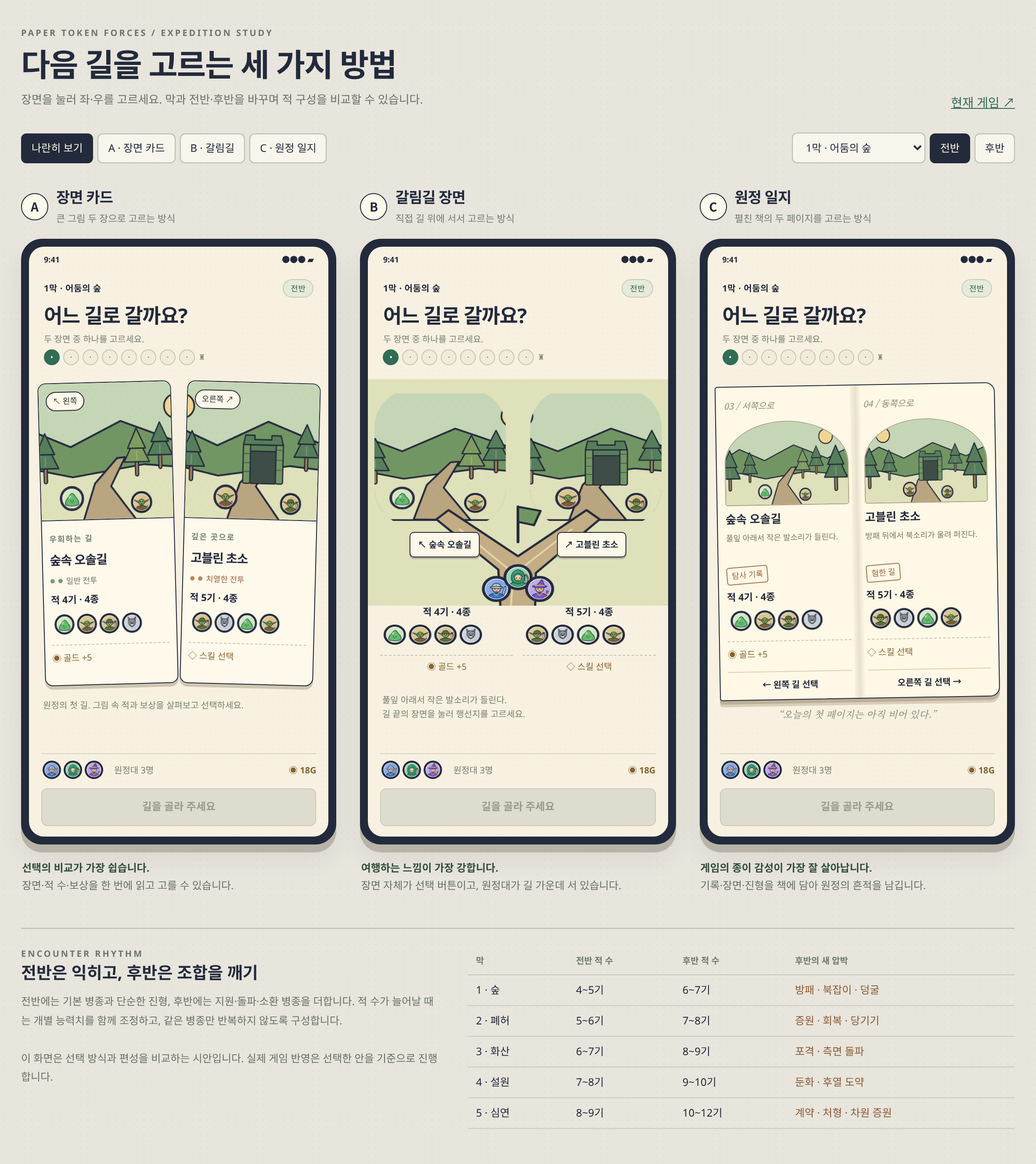
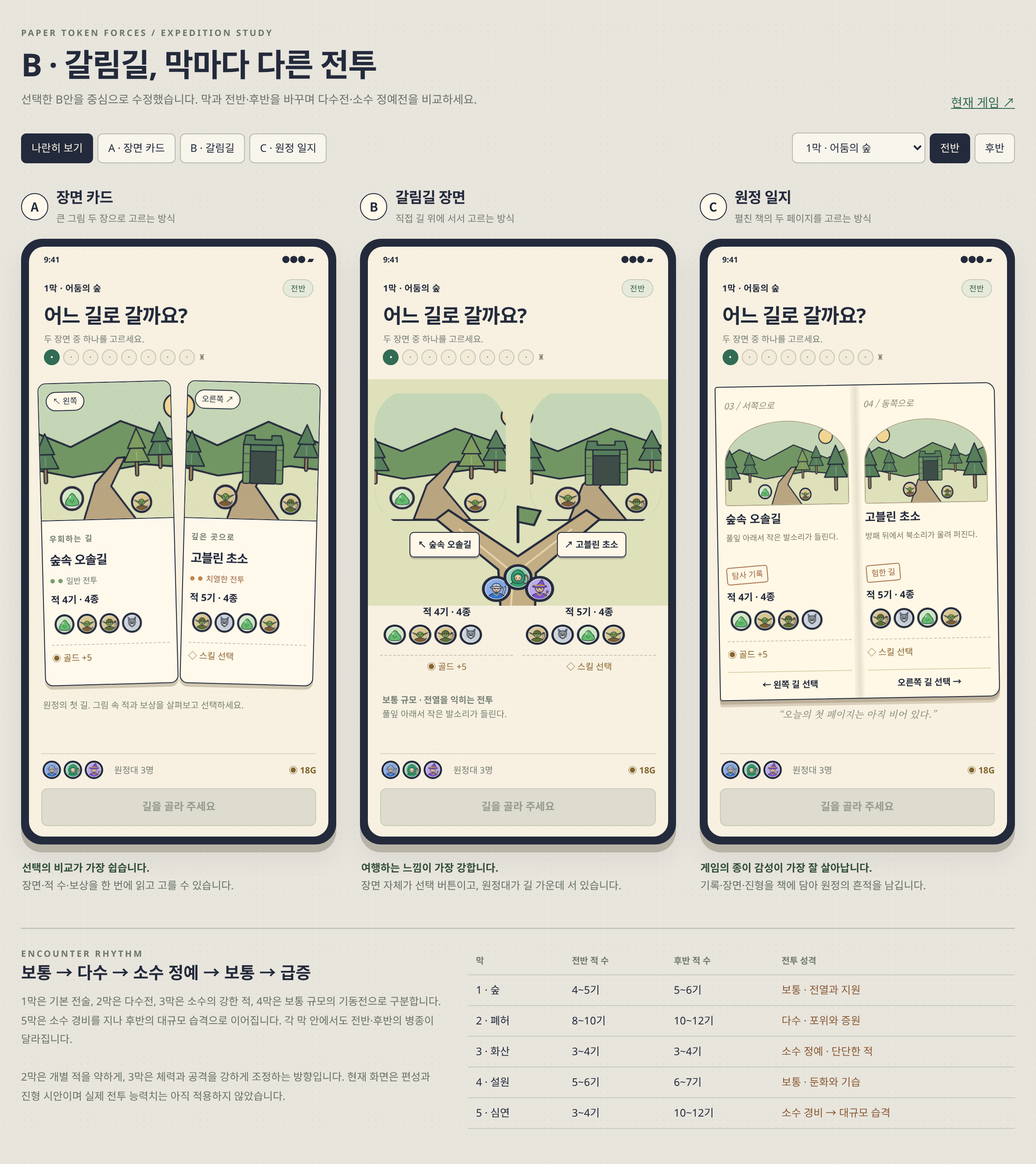
design(v4): select fork route and vary each act's battle rhythm

diff --git a/concepts/route-proposals.js b/concepts/route-proposals.js
@@ -5,17 +5,27 @@
   const themes = [null,
     { name: '어둠의 숲', sky: '#c5d6b6', ground: '#dee1ba', dark: '#577e5b', accent: '#729663', early: ['slime','goblin','gobarcher','wolf'], late: ['woodguard','gobdrummer','thornroot','acornlobber','shroom'], titles: [['숲속 오솔길','고블린 초소'],['덩굴 협곡','북소리 야영지']], story: ['풀잎 아래서 작은 발소리가 들린다.','방패 뒤에서 북소리가 울려 퍼진다.'] },
     { name: '망자의 폐허', sky: '#c9c5d2', ground: '#d9d5c7', dark: '#7c778b', accent: '#9788a4', early: ['skel','skelarch','zombie','bat'], late: ['boneguard','coffinbearer','chainwraith','bellkeeper','necro'], titles: [['묘지 샛길','무너진 성문'],['장송의 묘지','망령의 관문']], story: ['허물어진 담장 너머 뼈가 움직인다.','종소리가 울리자 관 뚜껑이 열린다.'] },
-    { name: '용의 화산', sky: '#e0bda8', ground: '#d8b493', dark: '#806559', accent: '#c37a4f', early: ['imp','lizard','salam','harpy'], late: ['powderimp','obsidian','lavaborer','flamerider','whelp','magmagolem'], titles: [['재가 쌓인 길','흑요석 관문'],['용암 분출지','화염 기수 주둔지']], story: ['식은 재 위로 작은 불씨가 튄다.','검은 갑각 사이로 용암이 흐른다.'] },
+    { name: '용의 화산', sky: '#e0bda8', ground: '#d8b493', dark: '#806559', accent: '#c37a4f', early: ['magmagolem','whelp','dragonkin','firecult'], late: ['obsidian','lavaborer','flamerider','demonknight'], titles: [['거인의 재길','용족의 관문'],['용암 분출지','화염 기수 주둔지']], story: ['재 아래서 거대한 숨소리가 들린다.','검은 갑각의 수호자들이 길을 막는다.'] },
     { name: '얼어붙은 봉우리', sky: '#c7dfe0', ground: '#e4ece1', dark: '#6f8f98', accent: '#74a7b8', early: ['yeti','frostwolf','frostskel','icesprite'], late: ['iceguard','frostdrummer','snowleopard','crystalmage','snowarcher'], titles: [['눈 덮인 계곡','얼음 감시탑'],['눈표범 사냥터','수정 요새']], story: ['눈밭에 발자국이 나란히 남아 있다.','안개 뒤 수정과 화살촉이 반짝인다.'] },
     { name: '심연의 성채', sky: '#c2b3c9', ground: '#cec1cf', dark: '#716380', accent: '#a684b2', early: ['demon','fallen','hellhound','shade'], late: ['contractpriest','abyssbanner','executioner','mirrordemon','darkpriest'], titles: [['버려진 회랑','차원 성문'],['그림자 회랑','계약의 성채']], story: ['빈 갑옷 안에서 발소리가 들린다.','보랏빛 문에서 새로운 그림자가 나온다.'] },
   ];
+  // Count and strength proposals are relative to an ordinary enemy in the same act.
+  // The preview shows composition only; these multipliers do not modify the live game.
+  const profiles = [null,
+    { early: { min:4, max:5, hp:1, atk:1, label:'보통 규모 · 전열을 익히는 전투' }, late: { min:5, max:6, hp:1, atk:1, label:'보통 규모 · 호위와 지원 병종' } },
+    { early: { min:8, max:10, hp:.65, atk:.75, label:'다수전 · 약한 적이 무리 지어 등장' }, late: { min:10, max:12, hp:.65, atk:.75, label:'다수전 · 회복과 증원의 물결' } },
+    { early: { min:3, max:4, hp:1.7, atk:1.25, label:'소수 정예 · 한 기씩 확실하게 처치' }, late: { min:3, max:4, hp:2, atk:1.4, label:'소수 정예 · 강력한 공격에 대비' } },
+    { early: { min:5, max:6, hp:1, atk:1, label:'보통 규모 · 둔화와 추격' }, late: { min:6, max:7, hp:1, atk:1, label:'보통 규모 · 후열을 노리는 기습' } },
+    { early: { min:3, max:4, hp:1.4, atk:1.1, label:'소수 경비 · 핵심 적부터 제거' }, late: { min:10, max:12, hp:.8, atk:.9, label:'대규모 습격 · 차원문에서 몰려오는 적' } },
+  ];
+  const profileFor = s => profiles[s.act][s.step>=4?'late':'early'];
   const captions = {
     a: ['장면 카드', '큰 그림 두 장으로 고르는 방식', '선택의 비교가 가장 쉽습니다.', '장면·적 수·보상을 한 번에 읽고 고를 수 있습니다.'],
     b: ['갈림길 장면', '직접 길 위에 서서 고르는 방식', '여행하는 느낌이 가장 강합니다.', '장면 자체가 선택 버튼이고, 원정대가 길 가운데 서 있습니다.'],
     c: ['원정 일지', '펼친 책의 두 페이지를 고르는 방식', '게임의 종이 감성이 가장 잘 살아납니다.', '기록·장면·진형을 책에 담아 원정의 흔적을 남깁니다.'],
   };
   const states = ['a','b','c'].map(id => ({ id, act: 1, step: 0, selected: null, stage: 'choice', history: [] }));
-  let view = ['a','b','c'].includes(location.hash.slice(1)) ? location.hash.slice(1) : 'compare';
+  let view = ['a','b','c'].includes(location.hash.slice(1)) ? location.hash.slice(1) : 'b';
   const texture = c => { c.fillStyle = '#232a3b0d'; for (let y=4;y<180;y+=8) for(let x=4+(y%3)*2;x<320;x+=10){c.beginPath();c.arc(x,y,.65,0,7);c.fill();} };
   function polygon(c, points, fill) { c.beginPath(); points.forEach(([x,y],i)=>i?c.lineTo(x,y):c.moveTo(x,y)); c.closePath(); c.fillStyle=fill; c.fill(); c.strokeStyle=INK;c.lineWidth=2.4;c.lineJoin='round';c.stroke(); }
   function line(c,points,color=INK,width=2.4){c.beginPath();points.forEach(([x,y],i)=>i?c.lineTo(x,y):c.moveTo(x,y));c.strokeStyle=color;c.lineWidth=width;c.lineCap='round';c.stroke();}
@@ -34,7 +44,8 @@
     texture(c);const ids=late?t.late:t.early;enemyIcon(c,ids[side?1:0],side?121:108,152,17);enemyIcon(c,ids[side?2:1],side?210:203,159,15);
   }
   function canvas(el,w,h,draw){const dpr=Math.min(3,window.devicePixelRatio||1);el.width=Math.ceil(w*dpr);el.height=Math.ceil(h*dpr);const c=el.getContext('2d');c.scale(dpr,dpr);draw(c);}
-  function choices(s){const t=themes[s.act],late=s.step>=4,base=late?5+s.act:3+s.act;return [0,1].map(side=>{let n=base+((s.step+side)%2);if(late&&s.act===5&&side===1)n=12;const pool=late?t.late:t.early,ids=Array.from({length:n},(_,i)=>pool[(i+(side?2:0)+s.step)%pool.length]);return {side,name:t.titles[late?1:0][side],ids,n,late,act:s.act,reward:side?'스킬 선택':`골드 +${4+s.act+(late?2:0)}`,hint:side?(late?'지원 병종이 전열을 지킵니다.':'후열 사수를 먼저 노리세요.'):(late?'넓게 배치해 포위에 대비하세요.':'전열을 세우고 차근차근 돌파하세요.')};});}
+  function choices(s){const t=themes[s.act],late=s.step>=4,profile=profileFor(s);return [0,1].map(side=>{const n=profile.min+((s.step%4+side*(profile.max-profile.min))%(profile.max-profile.min+1)),pool=late?t.late:t.early,ids=Array.from({length:n},(_,i)=>pool[(i+(side?2:0)+s.step)%pool.length]);return {side,name:t.titles[late?1:0][side],ids,n,late,act:s.act,profile,reward:side?'스킬 선택':`골드 +${4+s.act+(late?2:0)}`,hint:profile.label};});}
+  function bossRoute(s){const t=themes[s.act],profile=profiles[s.act].late,n=profile.max;return {name:['','숲의 왕좌','죽은 자의 왕좌','용의 둥지','빙하의 왕좌','심연의 왕좌'][s.act],act:s.act,side:1,late:true,n,profile,ids:[GD.ACTS[s.act].bosses[0],...Array.from({length:n-1},(_,i)=>t.late[i%t.late.length])],reward:'다음 막 · 보스 전리품',hint:s.act===3?'강력한 보스와 소수의 정예 호위입니다.':'보스와 호위 병종을 함께 상대합니다.'};}
   function portraits(c,ids,w=136,h=32){const unique=[...new Set(ids)];unique.forEach((id,i)=>enemyIcon(c,id,15+i*Math.min(26,(w-29)/Math.max(1,unique.length-1)),16,12));}
   function formation(c,route){
     c.fillStyle='#e7eadb';c.fillRect(0,0,320,147);
@@ -42,29 +53,29 @@
     const used=new Set();
     for(const id of route.ids){const d=GD.MONSTERS[id],rows=d.range>1?[0,1,2]:[2,1,0];let slot;
       for(const row of rows){for(const col of [2,1,3,0,4]){const key=row*5+col;if(!used.has(key)){slot={key,row,col};break;}}if(slot)break;}
-      if(slot){used.add(slot.key);enemyIcon(c,id,38+slot.col*61,28+slot.row*43,16);}
+      if(slot){used.add(slot.key);const x=38+slot.col*61,y=28+slot.row*43;if(route.act===3)oval(c,x,y,22,18,'#edc68b');enemyIcon(c,id,x,y,16);}
     }
   }
 
   const cards = (s,routes) => `<div class="postcards">${routes.map(r=>`<button class="route-card" data-side="${r.side}" aria-label="${r.side?'오른쪽':'왼쪽'} ${r.name} 선택" aria-pressed="${s.selected===r.side}"><span class="card-arrow">${r.side?'오른쪽 ↗':'↖ 왼쪽'}</span><canvas class="scene" data-scene="${r.side}" aria-hidden="true"></canvas><div class="card-copy"><small>${r.side?'깊은 곳으로':'우회하는 길'}</small><h4>${r.name}</h4><div class="risk ${r.side?'hard':''}"><i></i><i></i>${r.side?'치열한 전투':'일반 전투'}</div><p class="enemy-count">적 ${r.n}기 · ${new Set(r.ids).size}종</p><canvas class="tokens" data-tokens="${r.side}" aria-hidden="true"></canvas><div class="reward">${r.side?'◇':'◉'} ${r.reward}</div></div></button>`).join('')}</div><p class="theme-note">${s.step>=4?'새로운 병종이 합류했습니다. 지원과 전열의 조합을 살펴보세요.':'원정의 첫 길. 그림 속 적과 보상을 살펴보고 선택하세요.'}</p>`;
-  const diorama = (s,routes) => `<div class="diorama"><canvas class="wide-scene" data-diorama aria-hidden="true"></canvas>${routes.map(r=>`<button class="branch-hotspot ${r.side?'right':'left'}" data-side="${r.side}" aria-label="${r.side?'오른쪽':'왼쪽'} ${r.name} 선택" aria-pressed="${s.selected===r.side}"><span>${r.side?'↗':'↖'} ${r.name}</span></button>`).join('')}</div><div class="branch-details">${routes.map(r=>`<div class="branch-detail"><p class="enemy-count">적 ${r.n}기 · ${new Set(r.ids).size}종</p><canvas class="tokens" data-tokens="${r.side}" aria-hidden="true"></canvas><div class="reward">${r.side?'◇':'◉'} ${r.reward}</div></div>`).join('')}</div><p class="theme-note">${themes[s.act].story[s.step>=4?1:0]}<br>길 끝의 장면을 눌러 행선지를 고르세요.</p>`;
+  const diorama = (s,routes) => `<div class="diorama"><canvas class="wide-scene" data-diorama aria-hidden="true"></canvas>${routes.map(r=>`<button class="branch-hotspot ${r.side?'right':'left'}" data-side="${r.side}" aria-label="${r.side?'오른쪽':'왼쪽'} ${r.name} 선택" aria-pressed="${s.selected===r.side}"><span>${r.side?'↗':'↖'} ${r.name}</span></button>`).join('')}</div><div class="branch-details">${routes.map(r=>`<div class="branch-detail"><p class="enemy-count">적 ${r.n}기 · ${new Set(r.ids).size}종</p><canvas class="tokens" data-tokens="${r.side}" aria-hidden="true"></canvas><div class="reward">${r.side?'◇':'◉'} ${r.reward}</div></div>`).join('')}</div><p class="theme-note"><b>${profileFor(s).label}</b><br>${themes[s.act].story[s.step>=4?1:0]}</p>`;
   const journal = (s,routes) => `<div class="book">${routes.map(r=>`<button class="book-page" data-side="${r.side}" aria-label="${r.side?'오른쪽':'왼쪽'} ${r.name} 선택" aria-pressed="${s.selected===r.side}"><span class="page-number">${String(s.step*2+3+r.side).padStart(2,'0')} / ${r.side?'동쪽으로':'서쪽으로'}</span><canvas class="scene" data-scene="${r.side}" aria-hidden="true"></canvas><h4>${r.name}</h4><p class="story">${themes[s.act].story[r.side]}</p><span class="stamp">${r.side?'험한 길':'탐사 기록'}</span><p class="enemy-count">적 ${r.n}기 · ${new Set(r.ids).size}종</p><canvas class="tokens" data-tokens="${r.side}" aria-hidden="true"></canvas><div class="reward">${r.side?'◇':'◉'} ${r.reward}</div><span class="page-direction">${r.side?'오른쪽 길 선택 →':'← 왼쪽 길 선택'}</span></button>`).join('')}</div><p class="journal-note">“${s.history.length?'우리가 고른 길이 원정의 기록이 된다.':'오늘의 첫 페이지는 아직 비어 있다.'}”</p>`;
   function render(s){const article=$('proposal-'+s.id),t=themes[s.act],routes=choices(s),late=s.step>=4;const party=`<div class="party"><canvas data-party aria-hidden="true"></canvas><span>원정대 3명</span><b>◉ ${18+s.history.length*3}G</b></div>`;
     const header=`<div class="statusbar"><span>9:41</span><span>●●● ▰</span></div><div class="screen-head"><div class="actline"><b>${s.act}막 · ${t.name}</b><span class="phase ${late?'late':''}">${late?'후반':'전반'}</span></div><h3>${s.stage==='choice'?'어느 길로 갈까요?':s.stage==='boss'?'마지막 관문':'이 길로 떠납니다'}</h3><p class="sub">${s.stage==='choice'?'두 장면 중 하나를 고르세요.':s.stage==='boss'?'이 막의 보스가 기다리고 있습니다.':'선택한 행선지와 적의 진형'}</p><div class="breadcrumbs">${Array.from({length:8},(_,i)=>`<span class="crumb ${i===s.step?'now':i>s.step?'rest':''}">${i<s.history.length?(s.history[i]?'↗':'↖'):i===s.step?'•':'·'}</span>`).join('')}<span>♜</span></div></div>`;
     let content,footer;
     if(s.stage==='choice'){content=`<div class="choice-space">${({a:cards,b:diorama,c:journal})[s.id](s,routes)}<div class="selection-line" aria-live="polite">${s.selected===null?'':`${s.selected?'오른쪽':'왼쪽'} · ${routes[s.selected].name}`}</div></div>`;footer=`<div class="bottom">${party}<button class="depart" data-depart ${s.selected===null?'disabled':''}>${s.selected===null?'길을 골라 주세요':`${s.selected?'오른쪽':'왼쪽'} 길로 출발 →`}</button></div>`;}
-    else{const r=s.stage==='boss'?{name:['','숲의 왕좌','죽은 자의 왕좌','용의 둥지','빙하의 왕좌','심연의 왕좌'][s.act],act:s.act,side:1,late:true,n:5,ids:[GD.ACTS[s.act].bosses[0],...t.late.slice(0,4)],reward:'다음 막 · 보스 전리품',hint:'보스와 호위 병종을 함께 상대합니다.'}:s.arrival;content=`<div class="arrival"><canvas class="arrival-scene" data-arrival-scene aria-hidden="true"></canvas><h4>${r.name}</h4><p>${r.hint}</p><p><b>적 ${r.n}기 · ${new Set(r.ids).size}종</b> · 진형 미리보기</p><canvas class="formation" data-formation aria-label="선택한 길의 적 진형"></canvas><div class="reward">${r.reward}</div></div>`;footer=`<div class="bottom">${party}<button class="depart" data-next>${s.stage==='boss'?(s.act===5?'다시 원정을 시작하기':'다음 막으로 →'):'다음 갈림길 보기 →'}</button></div>`;}
+    else{const r=s.stage==='boss'?bossRoute(s):s.arrival;content=`<div class="arrival"><canvas class="arrival-scene" data-arrival-scene aria-hidden="true"></canvas><h4>${r.name}</h4><p>${r.hint}</p><p><b>적 ${r.n}기 · ${new Set(r.ids).size}종</b> · 진형 미리보기</p><canvas class="formation" data-formation aria-label="선택한 길의 적 진형"></canvas><div class="reward">${r.reward}</div></div>`;footer=`<div class="bottom">${party}<button class="depart" data-next>${s.stage==='boss'?(s.act===5?'다시 원정을 시작하기':'다음 막으로 →'):'다음 갈림길 보기 →'}</button></div>`;}
     article.querySelector('.screen').innerHTML=header+content+footer;
     const screen=article.querySelector('.screen');screen.querySelectorAll('[data-scene]').forEach(el=>canvas(el,s.id==='c'?240:180,s.id==='c'?150:180,c=>{if(s.id==='c'){c.scale(5/6,5/6);c.translate(-16,0);}else c.translate(-66,0);scene(c,s.act,+el.dataset.scene,late);}));screen.querySelectorAll('[data-tokens]').forEach(el=>canvas(el,136,32,c=>portraits(c,routes[+el.dataset.tokens].ids)));
     const dc=screen.querySelector('[data-diorama]');if(dc)canvas(dc,320,270,c=>{c.fillStyle=t.ground;c.fillRect(0,0,320,286);for(const side of [0,1]){c.save();c.beginPath();c.roundRect(side?173:7,9,140,169,48);c.clip();c.translate(side?173:7,17);c.scale(.82,.82);c.translate(-72,0);scene(c,s.act,side,late);c.restore();}polygon(c,[[142,286],[139,227],[73,167],[86,156],[160,211],[233,156],[247,167],[179,231],[178,286]],'#c3ad84');line(c,[[152,277],[155,231],[98,179]],'#e8d4ac',2);line(c,[[164,225],[217,179]],'#e8d4ac',2);flag(c,160,194,t.accent);for(const [i,id]of ['squire','archer','apprentice'].entries())ART.drawToken(c,ART.token(id,0,16,2),137+i*23,250-i%2*14,16,{flat:true});});
-    const ac=screen.querySelector('[data-arrival-scene]');if(ac){const r=s.stage==='boss'?{side:1,late:true}:s.arrival;canvas(ac,320,180,c=>scene(c,s.act,r.side,r.late));const route=s.stage==='boss'?{ids:[GD.ACTS[s.act].bosses[0],...t.late.slice(0,4)]}:s.arrival;canvas(screen.querySelector('[data-formation]'),320,147,c=>formation(c,route));}
+    const ac=screen.querySelector('[data-arrival-scene]');if(ac){const r=s.stage==='boss'?bossRoute(s):s.arrival;canvas(ac,320,180,c=>scene(c,s.act,r.side,r.late));canvas(screen.querySelector('[data-formation]'),320,147,c=>formation(c,r));}
     canvas(screen.querySelector('[data-party]'),75,27,c=>['squire','archer','apprentice'].forEach((id,i)=>ART.drawToken(c,ART.token(id,0,11,2),12+i*24,13,11,{flat:true})));
   }
   function changeView(v){view=v;$('gallery').classList.toggle('focused',v!=='compare');document.querySelectorAll('.proposal').forEach(el=>el.classList.toggle('active',el.id==='proposal-'+(v==='compare'?'a':v)));document.querySelectorAll('[data-view]').forEach(b=>b.setAttribute('aria-pressed',String(b.dataset.view===v)));}
   for(const s of states){const x=captions[s.id],el=document.createElement('article');el.id='proposal-'+s.id;el.className='proposal';el.innerHTML=`<div class="caption"><span>${s.id.toUpperCase()}</span><div><h2>${x[0]}</h2><small>${x[1]}</small></div></div><div class="device"><div class="screen"></div></div><p class="draft-note"><b>${x[2]}</b><br>${x[3]}</p>`;$('gallery').append(el);el.onclick=e=>{const side=e.target.closest('[data-side]');if(side&&s.stage==='choice'){s.selected=+side.dataset.side;render(s);}if(e.target.closest('[data-depart]')&&s.selected!==null){s.arrival=choices(s)[s.selected];s.stage='arrival';render(s);}if(e.target.closest('[data-next]')){if(s.stage==='boss'){s.act=s.act===5?1:s.act+1;s.step=0;s.history=[];s.stage='choice';}else{s.history.push(s.selected);s.step++;s.stage=s.step>=8?'boss':'choice';}s.selected=null;render(s);}};render(s);}
   document.querySelectorAll('[data-view]').forEach(b=>b.onclick=()=>changeView(b.dataset.view));$('act').onchange=()=>{for(const s of states){s.act=+$('act').value;s.selected=null;s.stage='choice';s.history=[];render(s);}};
   document.querySelectorAll('[data-phase]').forEach(b=>b.onclick=()=>{document.querySelectorAll('[data-phase]').forEach(x=>x.setAttribute('aria-pressed',String(x===b)));for(const s of states){s.step=b.dataset.phase==='late'?4:0;s.selected=null;s.stage='choice';s.history=[];render(s);}});
-  window.RouteStudy={get states(){return states.map(s=>({id:s.id,act:s.act,step:s.step,stage:s.stage,selected:s.selected,choices:choices(s).map(r=>({name:r.name,ids:[...r.ids],count:r.n}))}));},view:changeView};
+  window.RouteStudy={get states(){return states.map(s=>({id:s.id,act:s.act,step:s.step,stage:s.stage,selected:s.selected,choices:choices(s).map(r=>({name:r.name,ids:[...r.ids],count:r.n,profile:{...r.profile}}))}));},view:changeView};
   window.addEventListener('hashchange',()=>{const id=location.hash.slice(1);if(['a','b','c'].includes(id))changeView(id);});
   if(view==='compare'&&matchMedia('(max-width:700px)').matches)view='a';
   changeView(view);

diff --git a/concepts/v4-route-proposals.html b/concepts/v4-route-proposals.html
@@ -9,10 +9,10 @@
 </style>
 </head>
 <body><main>
-<header class="mast"><div><div class="eyebrow">PAPER TOKEN FORCES / EXPEDITION STUDY</div><h1>다음 길을 고르는 세 가지 방법</h1><p>장면을 눌러 좌·우를 고르세요. 막과 전반·후반을 바꾸며 적 구성을 비교할 수 있습니다.</p></div><a href="../v4/index.html">현재 게임 ↗</a></header>
+<header class="mast"><div><div class="eyebrow">PAPER TOKEN FORCES / EXPEDITION STUDY</div><h1>B · 갈림길, 막마다 다른 전투</h1><p>선택한 B안을 중심으로 수정했습니다. 막과 전반·후반을 바꾸며 다수전·소수 정예전을 비교하세요.</p></div><a href="../v4/index.html">현재 게임 ↗</a></header>
 <div class="controls"><nav class="tabs" aria-label="지도 시안"><button class="compare-tab" data-view="compare" aria-pressed="true">나란히 보기</button><button data-view="a" aria-pressed="false">A · 장면 카드</button><button data-view="b" aria-pressed="false">B · 갈림길</button><button data-view="c" aria-pressed="false">C · 원정 일지</button></nav><div class="world-controls"><select id="act" aria-label="막 선택"><option value="1">1막 · 어둠의 숲</option><option value="2">2막 · 망자의 폐허</option><option value="3">3막 · 용의 화산</option><option value="4">4막 · 얼어붙은 봉우리</option><option value="5">5막 · 심연의 성채</option></select><div class="tabs"><button data-phase="early" aria-pressed="true">전반</button><button data-phase="late" aria-pressed="false">후반</button></div></div></div>
 <div class="gallery" id="gallery"></div>
-<section class="enemy-plan"><div><div class="eyebrow">ENCOUNTER RHYTHM</div><h2>전반은 익히고, 후반은 조합을 깨기</h2><p>전반에는 기본 병종과 단순한 진형, 후반에는 지원·돌파·소환 병종을 더합니다. 적 수가 늘어날 때는 개별 능력치를 함께 조정하고, 같은 병종만 반복하지 않도록 구성합니다.<br><br>이 화면은 선택 방식과 편성을 비교하는 시안입니다. 실제 게임 반영은 선택한 안을 기준으로 진행합니다.</p></div><table><thead><tr><th>막</th><th>전반 적 수</th><th>후반 적 수</th><th>후반의 새 압박</th></tr></thead><tbody><tr><td>1 · 숲</td><td>4~5기</td><td>6~7기</td><td>방패 · 북잡이 · 덩굴</td></tr><tr><td>2 · 폐허</td><td>5~6기</td><td>7~8기</td><td>증원 · 회복 · 당기기</td></tr><tr><td>3 · 화산</td><td>6~7기</td><td>8~9기</td><td>포격 · 측면 돌파</td></tr><tr><td>4 · 설원</td><td>7~8기</td><td>9~10기</td><td>둔화 · 후열 도약</td></tr><tr><td>5 · 심연</td><td>8~9기</td><td>10~12기</td><td>계약 · 처형 · 차원 증원</td></tr></tbody></table></section>
+<section class="enemy-plan"><div><div class="eyebrow">ENCOUNTER RHYTHM</div><h2>보통 → 다수 → 소수 정예 → 보통 → 급증</h2><p>1막은 기본 전술, 2막은 다수전, 3막은 소수의 강한 적, 4막은 보통 규모의 기동전으로 구분합니다. 5막은 소수 경비를 지나 후반의 대규모 습격으로 이어집니다. 각 막 안에서도 전반·후반의 병종이 달라집니다.<br><br>2막은 개별 적을 약하게, 3막은 체력과 공격을 강하게 조정하는 방향입니다. 현재 화면은 편성과 진형 시안이며 실제 전투 능력치는 아직 적용하지 않았습니다.</p></div><table><thead><tr><th>막</th><th>전반 적 수</th><th>후반 적 수</th><th>전투 성격</th></tr></thead><tbody><tr><td>1 · 숲</td><td>4~5기</td><td>5~6기</td><td>보통 · 전열과 지원</td></tr><tr><td>2 · 폐허</td><td>8~10기</td><td>10~12기</td><td>다수 · 포위와 증원</td></tr><tr><td>3 · 화산</td><td>3~4기</td><td>3~4기</td><td>소수 정예 · 단단한 적</td></tr><tr><td>4 · 설원</td><td>5~6기</td><td>6~7기</td><td>보통 · 둔화와 기습</td></tr><tr><td>5 · 심연</td><td>3~4기</td><td>10~12기</td><td>소수 경비 → 대규모 습격</td></tr></tbody></table></section>
 </main>
 <script src="../game/data.js"></script><script src="../game/art.js"></script><script src="../v4/data4.js"></script><script src="../v4/enemies4.js"></script><script src="route-proposals.js"></script>
 </body></html>

diff --git a/docs/route-proposals-2026-10-07.md b/docs/route-proposals-2026-10-07.md
@@ -1,6 +1,6 @@
 # 좌·우 행선지 선택 시안
 
-2026-10-07. 저장소 최신 `09ff415`를 pull하고 비교용 시안만 만들었다. 실제 게임의 지도·적 생성·전투·저장 파일은 변경하지 않았다.
+2026-10-07. 최초 시안은 `09ff415`에서 만들었고, `668b817` 이후 사용자 피드백을 반영해 수정했다. 실제 게임의 지도·적 생성·전투·저장 파일은 변경하지 않았다.
 
 ## 세 가지 화면
 
@@ -12,7 +12,7 @@
 | B · 갈림길 장면 | 원정대 앞의 두 갈래 길과 그 끝의 장면을 직접 누름 | 원정대가 여행한다는 느낌, 큰 그림으로 막별 분위기를 표현 | 풍경 위에서 선택 영역과 표시를 명확하게 유지해야 함 |
 | C · 원정 일지 | 펼친 책의 왼쪽·오른쪽 페이지를 선택 | 종이 딱지와 잘 맞는 기록·이야기·도장 표현 | 긴 설명으로 선택이 느려지지 않게 짧은 문장과 아이콘 사용 |
 
-추천은 **B**. 장면을 선택하는 직관적인 조작과 큰 풍경을 중심에 두고, A의 적·보상 표시와 C의 선택 기록을 함께 사용할 수 있다.
+사용자가 선택한 안은 **B**이며, 클릭용 화면의 기본값도 B로 변경했다. 장면을 선택하는 직관적인 조작과 큰 풍경을 중심에 두고, A의 적·보상 표시와 C의 선택 기록을 함께 사용할 수 있다. A와 C는 비교 자료로 남겼다.
 
 첫 그림은 이미지 생성으로 만든 미술 방향 시안이다. 클릭용 화면은 기존 `game/art.js`의 실제 딱지와 순수 Canvas 2D 풍경으로 만든 레이아웃·조작 시안이다. 두 자료는 각각 미술 방향과 구현 가능한 화면 구조를 확인하는 용도다.
 
@@ -23,7 +23,7 @@
 3. 출발 후 선택한 장소와 적 진형을 확인한다. 시안은 실제 전투 대신 진형 미리보기로 연결한다.
 4. 다음 갈림길로 넘어가면 이전 선택은 작은 발자취로 남는다. 8번 선택 뒤 보스 관문, 보스 뒤 다음 막으로 이어진다.
 
-1~5막과 전반/후반을 바꾸어 세 화면의 풍경·적 병종·수 변화를 비교할 수 있다. 휴대폰에서는 A/B/C 탭, 넓은 화면에서는 세 안을 나란히 보여준다.
+1~5막과 전반/후반을 바꾸어 풍경·적 병종·수 변화를 비교할 수 있다. 기본 화면은 B이며, A/B/C 탭과 넓은 화면의 나란히 보기로 이전 안도 확인할 수 있다.
 
 ## 적 구성을 바꾸는 초안
 
@@ -33,11 +33,23 @@
 
 | 막 | 전반 | 후반 | 후반 전술 |
 |---|---|---|---|
-| 1 · 어둠의 숲 | 4~5기: 슬라임·고블린·고블린 궁수·늑대 | 6~7기: 나무방패 고블린·북잡이·가시덩굴·도토리 투척꾼·독버섯 | 호위를 뚫고 지원 병종 제거 |
-| 2 · 망자의 폐허 | 5~6기: 해골·해골 궁수·좀비·박쥐 | 7~8기: 뼈 방패지기·관 운반자·사슬 망령·종지기·강령술사 | 증원과 회복을 끊고 위치 교란 대비 |
-| 3 · 용의 화산 | 6~7기: 임프·도마뱀·살라맨더·하피 | 8~9기: 화약 임프·흑요석 파수병·분출충·화염 기수·새끼 용·용암 골렘 | 포격 분산, 측면 호위, 사망 폭발 대비 |
-| 4 · 얼어붙은 봉우리 | 7~8기: 예티·서리 늑대·서리 해골·얼음 정령 | 9~10기: 얼음 방패병·서리 북잡이·눈표범·수정술사·설원 궁수 | 둔화 추격과 후열 도약에 대응 |
-| 5 · 심연의 성채 | 8~9기: 악마·타락 기사·지옥 사냥개·그림자 | 10~12기: 계약 사제·심연 기수·처형자·거울 악마·타락 사제 | 연결 지원망 해체, 처형 표식 보호, 증원 제어 |
+| 1 · 어둠의 숲 | 4~5기: 슬라임·고블린·고블린 궁수·늑대 | 5~6기: 나무방패 고블린·북잡이·가시덩굴·도토리 투척꾼·독버섯 | 보통 규모: 호위를 뚫고 지원 병종 제거 |
+| 2 · 망자의 폐허 | 8~10기: 해골·해골 궁수·좀비·박쥐 | 10~12기: 뼈 방패지기·관 운반자·사슬 망령·종지기·강령술사 | 다수전: 증원과 회복을 끊고 포위 대비 |
+| 3 · 용의 화산 | 3~4기: 용암 골렘·새끼 용·용족 전사·화염 숭배자 | 3~4기: 흑요석 파수병·분출충·화염 기수·악마 기사 | 소수 정예: 집중 공격, 보호막과 강공격 대비 |
+| 4 · 얼어붙은 봉우리 | 5~6기: 예티·서리 늑대·서리 해골·얼음 정령 | 6~7기: 얼음 방패병·서리 북잡이·눈표범·수정술사·설원 궁수 | 보통 규모: 둔화 추격과 후열 도약에 대응 |
+| 5 · 심연의 성채 | 3~4기: 악마·타락 기사·지옥 사냥개·그림자 | 10~12기: 계약 사제·심연 기수·처형자·거울 악마·타락 사제 | 소수 경비에서 대규모 습격으로 전환 |
+
+3막 후반은 수를 늘리지 않고 병종과 개별 위력을 바꾼다. 진형 미리보기에서는 정예 딱지의 금색 테두리로 소수 정예전을 구분한다. 보스 진형 시안도 각 막 후반의 상한(6/12/4/7/12기)을 따르며, 보스 1기와 나머지 호위로 구성한다. 일반전 수치가 실제 보스 난이도를 결정하지는 않는다.
+
+체력·공격의 아래 값은 **같은 막의 일반 적 대비 초기 조정 후보**다. 시안 데이터에 기록했지만 실제 전투에 적용하거나 난이도 검증을 마친 값은 아니다.
+
+| 막 | 전반 체력 / 공격 | 후반 체력 / 공격 | 목적 |
+|---|---|---|---|
+| 1 | ×1 / ×1 | ×1 / ×1 | 기본 전열과 지원 조합 |
+| 2 | ×0.65 / ×0.75 | ×0.65 / ×0.75 | 적 수를 늘리면서 개별 부담 완화 |
+| 3 | ×1.7 / ×1.25 | ×2 / ×1.4 | 적은 수로도 위협적인 정예 |
+| 4 | ×1 / ×1 | ×1 / ×1 | 수 대신 기동과 둔화로 변화 |
+| 5 | ×1.4 / ×1.1 | ×0.8 / ×0.9 | 소수 경비와 후반 물량의 대비 |
 
 적 수를 늘릴 때는 개별 체력·공격력을 함께 조정해야 한다. 지원형은 동일 병종 복제를 제한하고 전열·원거리·지원의 역할을 혼합한다. 정예전은 같은 수의 약한 병종을 반복하는 대신 핵심 정예와 다른 역할의 호위로 구성한다. 보스 호위 수도 보스 행동과 함께 설계한다. 최대 12기는 현재 적 배치 공간 5×3칸의 15칸 안에 들어간다.
 
@@ -45,7 +57,7 @@
 
 ## 검증과 캡처
 
-`node tests/browser-route-proposals.cjs`로 3개 화면 × 5막 × 2구간 = **30개 구성**, 390×844·360×640, 좌·우 선택 변경, 출발, 적 진형, 보스 관문, 다음 막, 직접 링크를 확인했다. 각 구간의 병종 풀이 달라지고 후반 적 수가 늘어나는 것도 검사한다. JavaScript 예외와 실패한 리소스 요청은 0이다.
+`node tests/browser-route-proposals.cjs`로 3개 화면 × 5막 × 2구간 = **30개 구성**, B안의 5막 × 8갈림길 = **40단계**, 390×844·360×640, 좌·우 선택 변경, 출발, 적 진형, 각 막의 보스 관문, 다음 막, 직접 링크를 확인했다. 각 구간의 병종 분리, 막별 인원 범위, 3막의 고정된 소수 인원과 강화 후보, 2막의 약화 후보도 검사한다. JavaScript 예외와 실패한 리소스 요청은 0이다.
 
 [세 안 비교 화면](route-proposal-evidence/comparison-desktop.png)
 
@@ -56,3 +68,5 @@
 | C · 원정 일지 | [보기](route-proposal-evidence/c-early-390.png) | [보기](route-proposal-evidence/c-late-390.png) |
 
 [보스 관문](route-proposal-evidence/boss-gate.png) · [구성·검증 기록](route-proposal-evidence/verification.json) · [브라우저 로그](route-proposal-evidence/browser.log)
+
+사용자 피드백 반영: [2막 다수전](route-proposal-evidence/b-act2-early.png) · [3막 소수 정예](route-proposal-evidence/b-act3-late.png) · [5막 전반](route-proposal-evidence/b-act5-early.png) · [5막 후반](route-proposal-evidence/b-act5-late.png)
